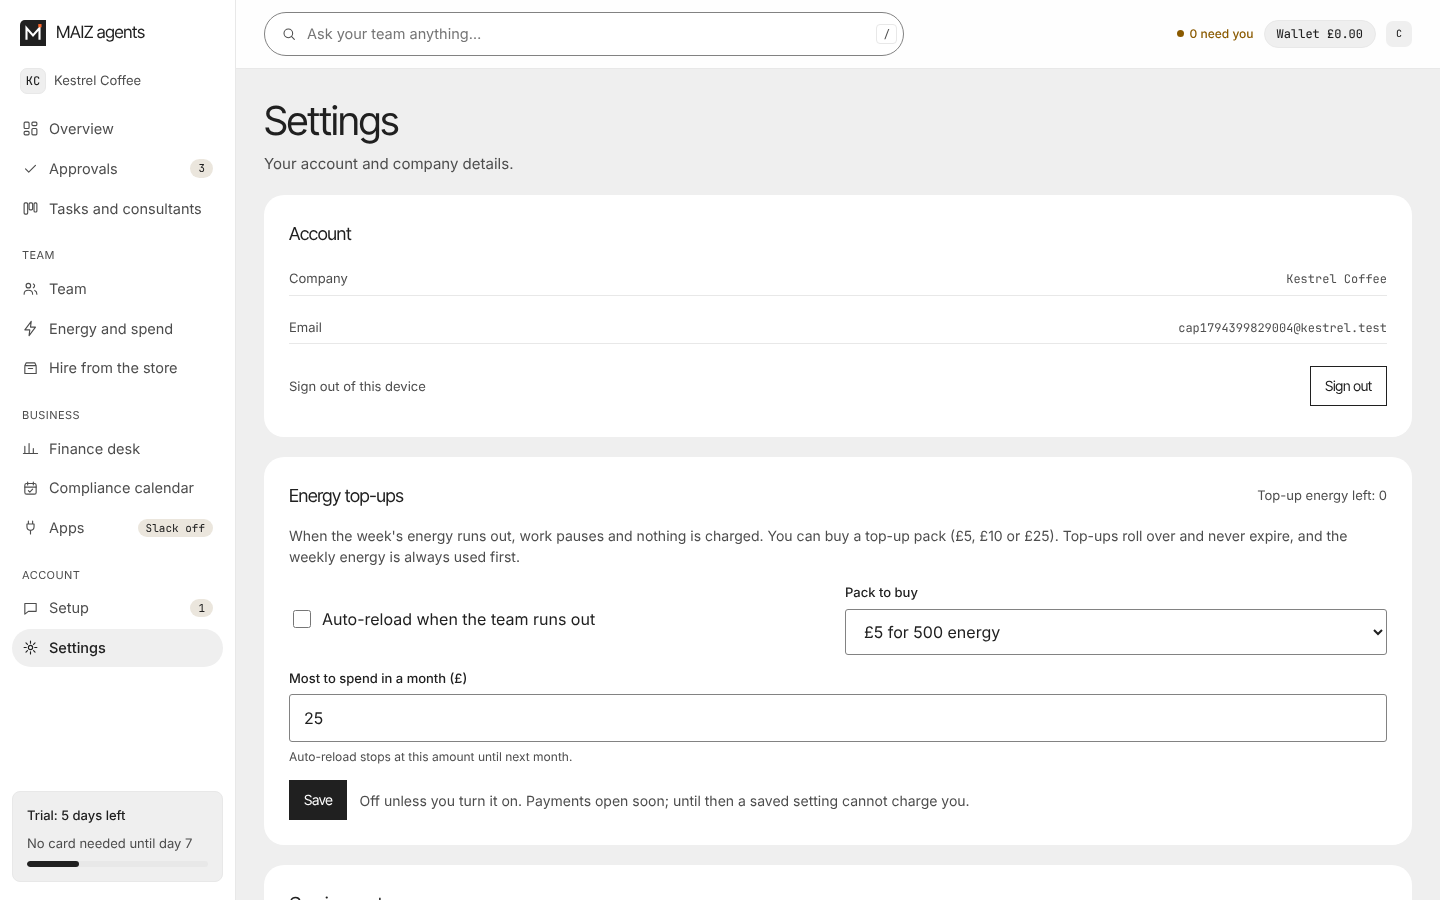
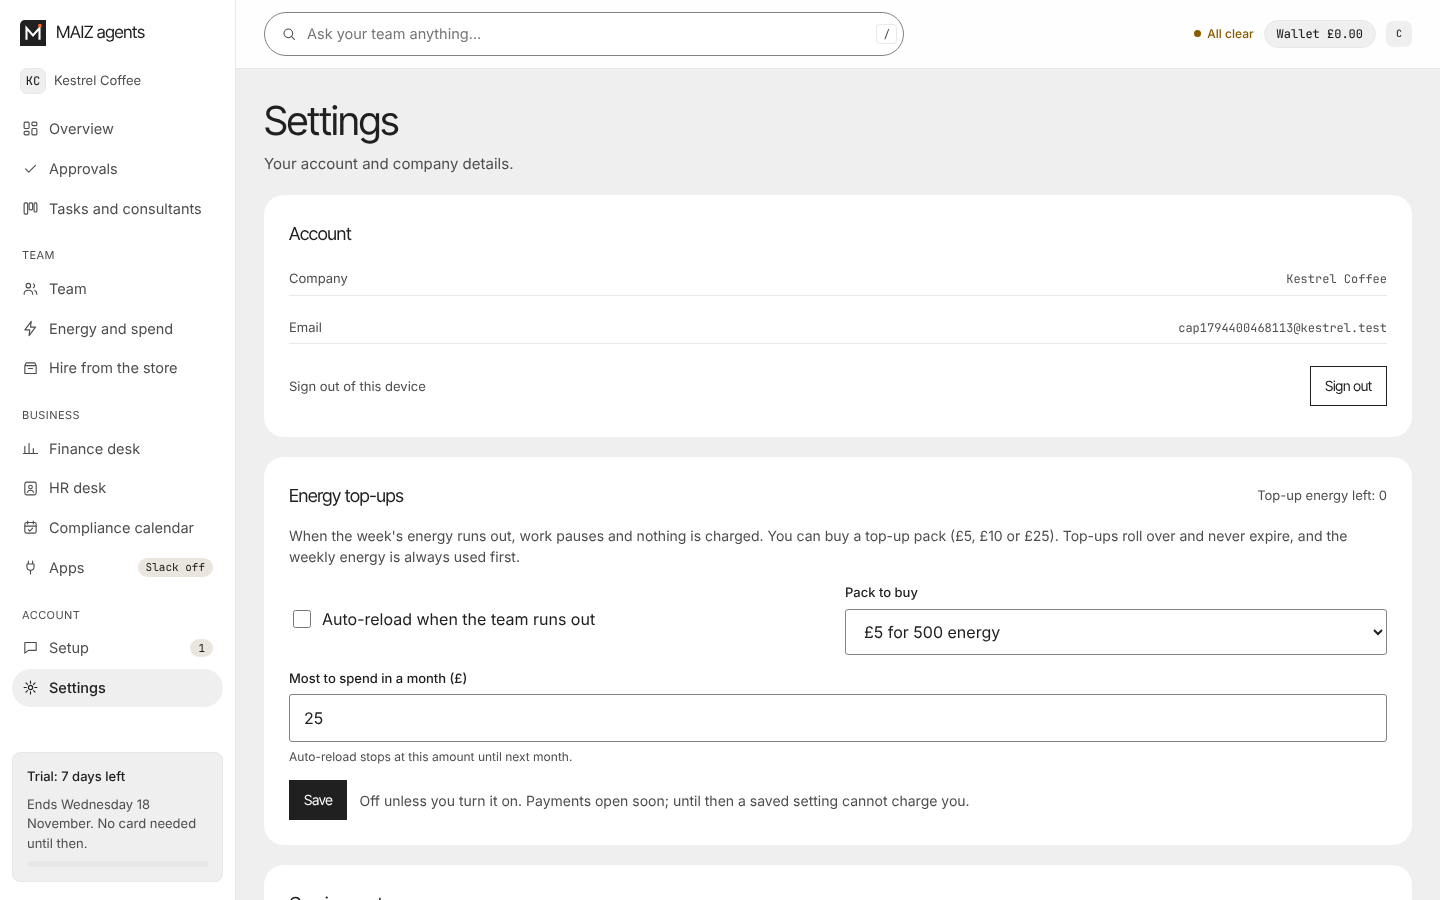
fix: signed-in clients see their own trial and needs, not the example business
- Sidebar trial box counts down from the real trial end.
- The needs count includes the setup card and never says all clear above it;
  it recounts when the setup form is sent. No example count while data loads.
- Coming up is labelled as example until apps are connected.
- Link check understands per-employee dashboard links (#desk/<key>).

Claude-Session: https://claude.ai/code/session_01DQV5cfRhtBhkajZ2ebHJks

diff --git a/web/src/app.ts b/web/src/app.ts
@@ -76,6 +76,8 @@ document.addEventListener("click", (e) => {
   if (t) toast(t.dataset.toast ?? "");
 });
 
+// A signed-in client should not glimpse the example count while their own data loads.
+if (getToken()) $("need-count").textContent = "Checking…";
 // Needs-you + approvals share one list of pending items.
 const pending = new Set(["posts", "vat", "pack"]);
 const details: Record<string, { title: string; cost: string; leaves: string; prev: string; why: string; ok: string }> = {
@@ -94,7 +96,11 @@ function refresh(): void {
   $("need-count").textContent = n === 0 ? "All clear" : `${n} need${n === 1 ? "s" : ""} you`;
   const needs = $("needs");
   let clear = needs.querySelector(".all-clear");
-  if (n === 0 && !clear) { clear = document.createElement("p"); clear.className = "all-clear"; clear.textContent = "Nothing needs you right now. Your team is working."; needs.style.display = "block"; needs.appendChild(clear); }
+  // The setup card counts too: never say "nothing needs you" right under it.
+  const setupOpen = !!document.getElementById("setup-need") && !$("setup-need").hidden;
+  $("need-count").textContent = n + (setupOpen ? 1 : 0) === 0 ? "All clear" : `${n + (setupOpen ? 1 : 0)} need${n + (setupOpen ? 1 : 0) === 1 ? "s" : ""} you`;
+  if (setupOpen && clear) { clear.remove(); clear = null; }
+  if (n === 0 && !clear && !setupOpen) { clear = document.createElement("p"); clear.className = "all-clear"; clear.textContent = "Nothing needs you right now. Your team is working."; needs.style.display = "block"; needs.appendChild(clear); }
   if (!pending.has(selected)) selected = [...pending][0] ?? "";
   $("adetail").toggleAttribute("hidden", !selected);
   $("appr-empty").toggleAttribute("hidden", n > 0);
@@ -105,6 +111,9 @@ function refresh(): void {
     $("a-leaves").innerHTML = d.leaves; $("a-prev").innerHTML = d.prev; $("a-why").textContent = d.why; $("a-ok").textContent = d.ok;
   }
 }
+// When the setup form is sent (setup.ts hides its card), recount what needs the owner.
+const setupCard = document.getElementById("setup-need");
+if (setupCard) new MutationObserver(() => refresh()).observe(setupCard, { attributes: true, attributeFilter: ["hidden"] });
 function resolve(id: string, msg: string): void {
   const card = document.querySelector<HTMLElement>(`[data-need="${id}"]`);
   card?.classList.add("gone");
@@ -125,6 +134,16 @@ $("a-edit").addEventListener("click", () => toast("Editing opens in the web edit
 let realOrg: Org | undefined;
 const ROLE: Record<string, [string, string]> = { "finance-manager": ["FM", "av-fm"], "marketing-manager": ["MM", "av-mm"], "business-consultant": ["BC", "av-bc"], "hr-manager": ["HR", "av-hr"], "compliance-manager": ["CM", "av-cm"], "supply-chain-manager": ["SC", "av-sc"], "admin-manager": ["AM", "av-tl"] };
 const esc = (s: string) => s.replace(/[&<>"]/g, (c) => ({ "&": "&amp;", "<": "&lt;", ">": "&gt;", '"': "&quot;" })[c]!);
+/** The sidebar trial box from the real trial end; hidden once the client is on a paid plan. */
+function showTrial(endsAt: string | undefined): void {
+  if (!endsAt) { $("trial-box").hidden = true; return; }
+  const DAY = 86_400_000, TRIAL_DAYS = 7;
+  const left = Math.max(0, Math.ceil((new Date(endsAt).getTime() - Date.now()) / DAY));
+  $("trial-left").textContent = left === 0 ? "Trial ends today" : `Trial: ${left} day${left === 1 ? "" : "s"} left`;
+  $("trial-note").textContent = `Ends ${new Date(endsAt).toLocaleDateString("en-GB", { weekday: "long", day: "numeric", month: "long" })}. No card needed until then.`;
+  $("trial-bar").style.width = `${Math.min(100, Math.round(((TRIAL_DAYS - left) / TRIAL_DAYS) * 100))}%`;
+}
+
 async function loadOrg(): Promise<void> {
   // Visitors without a login see the example business: the "Explore the demo" links land here.
   if (!getToken()) { $("demo-banner").hidden = false; return; }
@@ -140,6 +159,7 @@ async function loadOrg(): Promise<void> {
   orgName = realOrg.name;
   $("set-biz").textContent = realOrg.name; // Settings shows the signed-in company, not this device's last signup.
   setPeopleBusiness(realOrg.name);
+  showTrial(realOrg.trialEndsAt);
   app.classList.add("is-live");
   // A real client never sees the example business's requests, and example-only panels say so.
   document.querySelectorAll<HTMLElement>("[data-need]").forEach((el) => el.remove());

diff --git a/web/app.html b/web/app.html
@@ -34,7 +34,7 @@
     <a class="ni" href="#setup" data-nav="setup"><svg viewBox="0 0 24 24" fill="none" stroke="currentColor" stroke-width="1.6" stroke-linecap="round" stroke-linejoin="round" aria-hidden="true"><path d="M4 5h16v11H9l-5 4z"/></svg>Setup<span class="count" id="setup-badge">1</span></a>
     <a class="ni" href="#settings" data-nav="settings"><svg viewBox="0 0 24 24" fill="none" stroke="currentColor" stroke-width="1.6" stroke-linecap="round" stroke-linejoin="round" aria-hidden="true"><circle cx="12" cy="12" r="3"/><path d="M12 3v3M12 18v3M3 12h3M18 12h3M5.6 5.6l2.1 2.1M16.3 16.3l2.1 2.1M18.4 5.6l-2.1 2.100M7.7 16.3l-2.1 2.1"/></svg>Settings</a>
     </nav>
-    <div class="trial"><b>Trial: 5 days left</b><span class="muted">No card needed until day 7</span><div class="energy"><i style="width:29%"></i></div></div>
+    <div class="trial" id="trial-box"><b id="trial-left">Trial: 5 days left</b><span class="muted" id="trial-note">No card needed until day 7</span><div class="energy"><i id="trial-bar" style="width:29%"></i></div></div>
   </aside>
   <div class="scrim" id="scrim"></div>
 
@@ -102,7 +102,7 @@
             <p class="small muted">Shares of the team's weekly energy. It refills on Monday; urgent work is never held back.</p></section>
           <section class="panel" aria-labelledby="ovp-h"><div class="panel-h"><h2 id="ovp-h">People today</h2><a class="r link" href="#people">Open HR desk</a></div>
             <div id="ov-people"></div></section>
-          <section class="panel"><div class="panel-h"><h2>Coming up</h2><a class="r link" href="#compliance">Compliance calendar</a></div>
+          <section class="panel" data-example><div class="panel-h"><h2>Coming up</h2><a class="r link" href="#compliance">Compliance calendar</a></div>
             <ul class="brief" id="ov-next"></ul></section>
         </div>
       </div>
